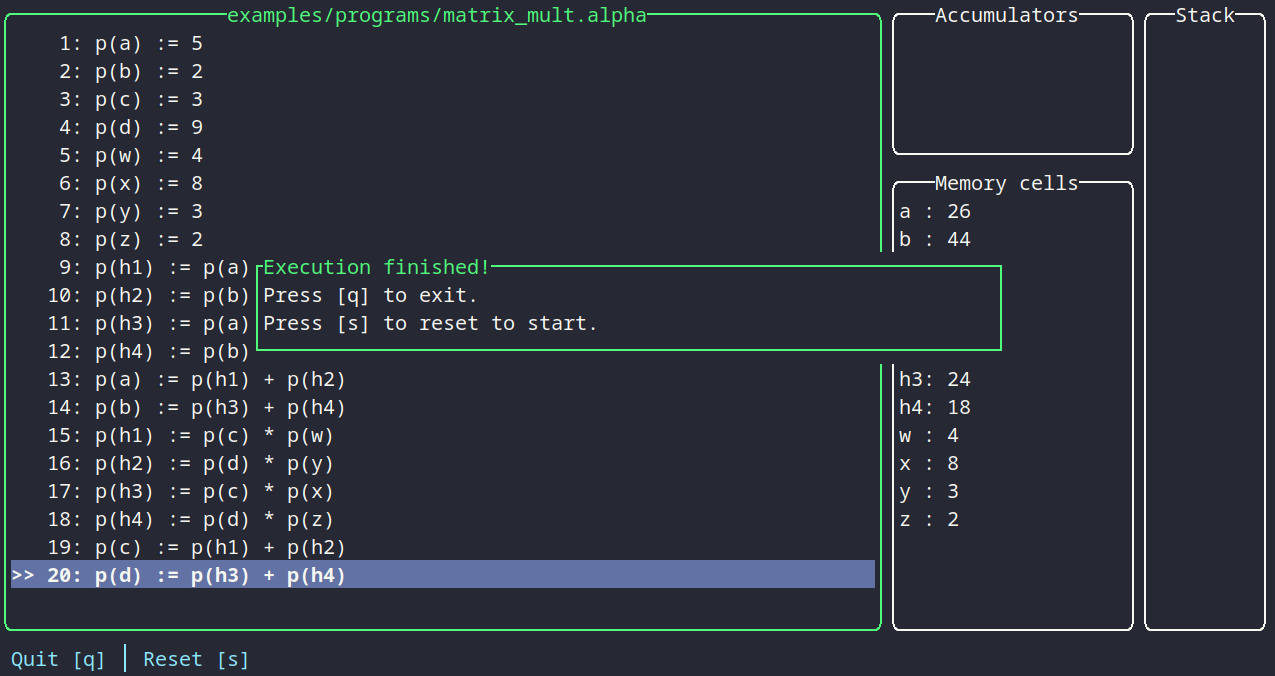
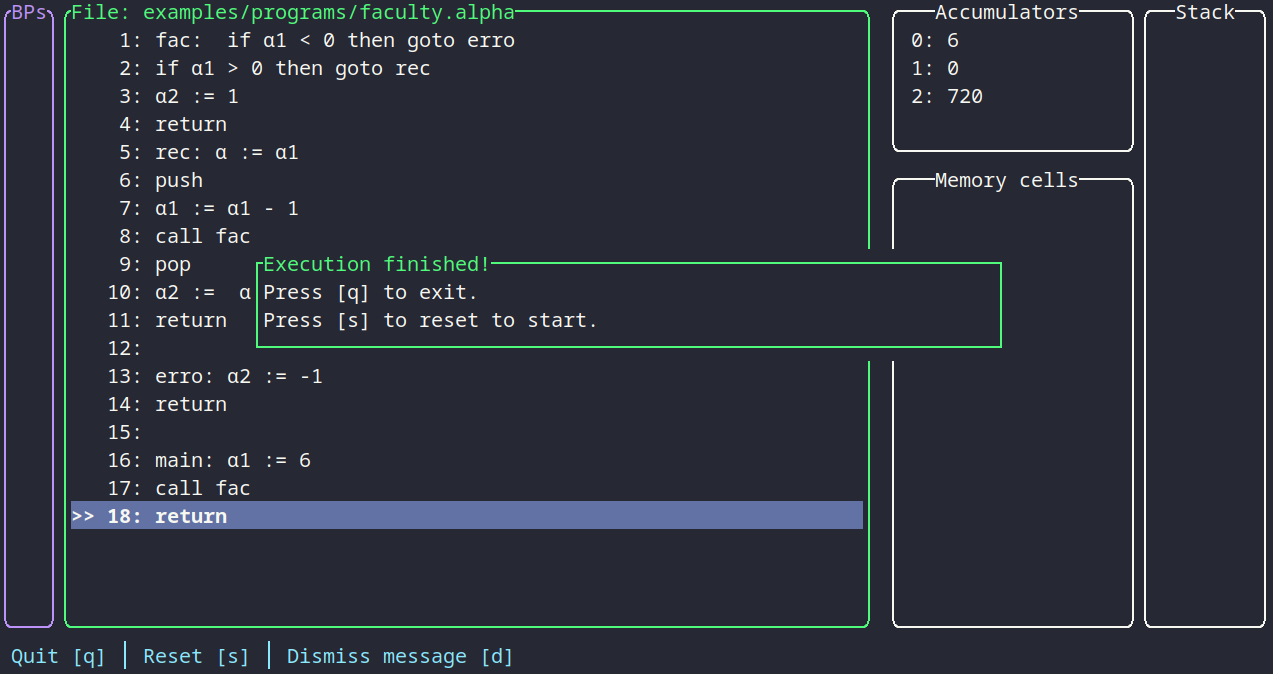
Updated documentation

Changed region(s): [[0.0, 0.0, 1.0, 0.9347], [0.0, 0.9659, 0.3983, 0.997], [0.2145, 0.2181, 0.2451, 0.2493]]

diff --git a/README.md b/README.md
@@ -2,14 +2,14 @@
 
 This is my attempt at writing a compiler for the Alpha-Notation used in my Systemnahe Informatik lecture at university.
 
-Programs are read in and then compiled, a terminal ui is then opened where you can run the program line by line.
+Programs are read in and then compiled, a terminal ui is then opened where you can run the program line by line or by using breakpoints.
 
 ## Getting started
 
 1. Download the [newest release]() specific for your system
 2. Extract the .zip file 
 3. Create a program by using the text editor of your choice or try an example program located in [examples/programs](examples/programs). The examples might help you write your program.
-4. Run `alpha_tui` by opening a terminal in the folder and then typing `alpha_tui -i FILENAME`
+4. Run `alpha_tui` by opening a terminal in the folder and then typing `alpha_tui -i FILENAME`, for an example program this command could look like this: `alpha_tui -i examples/programs/faculty.alpha`
 5. The terminal ui will open where you can run the program line by line by using the `[r]` key
 
 ### Compile from source
@@ -37,14 +37,19 @@ The interface is written using the [ratatui](https://github.com/ratatui-org/rata
 
 When a program is opened it can look like this: ![Program loaded example](media/gui_program_loaded.png)
 
-Press `[r]` to run the next instruction. Values that have changed and the line that was run last are highlighted.  This can look like this: ![Program running example](media/gui_program_running.png)
+Press `[r]` to begin to run the program, subsequent instructions can also be run with `[r]`. Values that have changed and the line that was run last are highlighted.  This can look like this: ![Program running example](media/gui_program_running.png)
 
 When the last instruction was executed the following window is displayed. You can restart by pressing `[s]` or exit the program by pressing `[q]`. ![Program finished example](media/gui_program_finished.png)
 
 ### Breakpoints
 
-By pressing `[b]` you can enter breakpoint mode in which you can use the arrow keys (for ease of use `[w]` and `[s]` are also supported) and `[t]` to set
-breakpoints throughout your program. A `*` to the left of the line indicates that the line contains a breakpoint.
+Breakpoints can be set to run all lines of code up until the line in which the breakpoint is set.
+
+Press `[b]` to enter breakpoint mode, it could look like this:![Breakpoint mode](media/gui_breakpoint_mode.png)
+
+Navigate by using the `arrow keys`, for ease of `[w]` and `[s]` are also supported. To `set` or `remove` a breakpoint in the selected line press the `[t]` key: ![Breakpoint set](media/gui_breakpoint_set.png)
+
+Exit breakpoint mode by pressing the `[b]` key again. Press `[n]` when in run mode to make the program run automatically to the next breakpoint (note how the values to the right have been updated): ![Next breakpoint](media/gui_breakpoint_mode_run.png)
 
 ### Error handling
 
@@ -56,6 +61,7 @@ or this: ![Miette error handling](media/miette_error_2.png)
 
 ## Future ideas
 
-- [ ] Add support for breakpoints
 - [ ] Make instruction list scroll down to make 3 instructions before the current one always displayed
     - ratatui currently does not provide a simple solution for this
+- [ ] Add command line parameter that allows a program to be run where the content of a specific accumulator or memory cell is compared against a defined value that is provided when the program is launched. Alpha_tui will exit with 0 if the resulting value is equal to the provided value. This will make it possible to automate tests for alpha notation programs.
+- [ ] Move backend (internal runtime environment) into own project which makes it possible to write new programs without the need to copy the backend of this program

diff --git a/instructions.md b/instructions.md
@@ -14,7 +14,7 @@ Be $c\in\mathbb{Z};n,o,p\in\mathbb{N}|n\geq0:j,k,l\in\lbrace h_0,\ldots,h_n\rbra
 | - | - | - |
 |$T := S $| $\alpha0$ := $\rho(h1)$ | |
 |$T := S\space\textbf{OP}\space S$ |$\rho$(h1) := $\alpha 0$ + 5 | |
-|if $S\space\textbf{cmp}\space S$ then goto label| if $\alpha 0$ == $\alpha 1$ then goto loop | if the comparison succeeds the next instruction p ointer is updated to the instruction at label |
+|if $S\space\textbf{cmp}\space S$ then goto label| if $\alpha 0$ == $\alpha 1$ then goto loop | if the comparison succeeds the next instruction pointer is updated to the instruction at label |
 |goto label | goto loop | the next instruction pointer is updated to the instruction at label|
 |stack $\textbf{OP}$ | stack+ | uses the top most values to calculate a new value which is then pushed onto the stack, note that the top most value is the right part of the calculation|
 |push | push | pushes the current value of $\alpha_0$/a0 on the stack |
